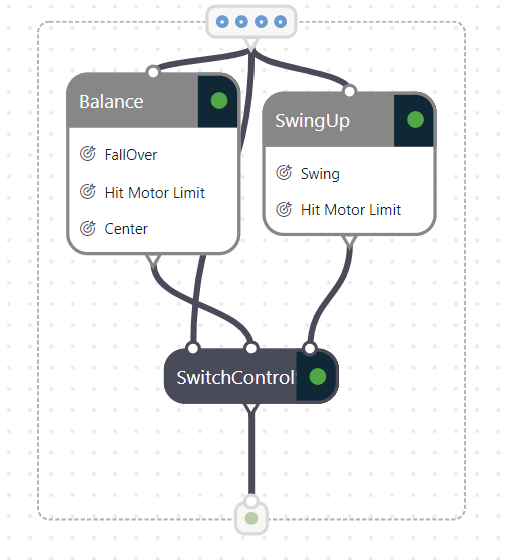
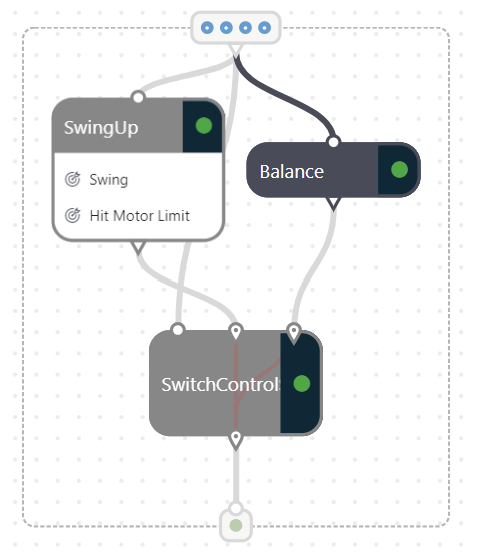
Consolidating to one selector Inkling file. Updated README for learned concept and programmed concept for balance. Added pytests

diff --git a/Python/samples/quanser-qube/tests/test_multi_concept.py b/Python/samples/quanser-qube/tests/test_multi_concept.py
@@ -1,0 +1,46 @@
+import os
+import pytest
+from functools import partial
+import glob
+import pandas as pd
+import numpy as np
+
+@pytest.fixture()
+def port(pytestconfig):
+    return pytestconfig.getoption("port")
+
+@pytest.fixture()
+def render(pytestconfig):
+    return pytestconfig.getoption("render")
+
+@pytest.fixture()
+def num_iterations(pytestconfig):
+    return pytestconfig.getoption("num_iterations")
+
+@pytest.fixture()
+def scenario_file(pytestconfig):
+    return pytestconfig.getoption("scenario_file")
+
+def test_exported_brain(port, render, num_iterations, scenario_file):
+    from policies import brain_policy
+    from main import test_policy
+    url = f"http://localhost:{port}"
+    print(f"Connecting to exported brain running at {url}...")
+    trained_brain_policy = partial(brain_policy, exported_brain_url=url)
+    test_policy(
+        render=render,
+        log_iterations=True,
+        policy=trained_brain_policy,
+        policy_name="exported",
+        num_iterations=num_iterations,
+        scenario_file=scenario_file,
+    )
+
+    files = glob.glob('logs/' + '/*csv')
+    max_file = max(files, key=os.path.getctime)
+
+    with open(max_file) as fname:
+        df = pd.read_csv(fname)
+
+    assert np.mean(df['state_alpha'].iloc[-400:]) <= 0.03
+    assert np.mean(df['state_alpha_dot'].iloc[-400:]) <= 0.01

diff --git a/Python/samples/quanser-qube/tests/conftest.py b/Python/samples/quanser-qube/tests/conftest.py
@@ -1,0 +1,5 @@
+def pytest_addoption(parser):
+    parser.addoption("--port", action="store", default=5005)
+    parser.addoption("--render", action="store", default=False)
+    parser.addoption("--num_iterations", action="store", default=640)
+    parser.addoption("--scenario_file", action="store", default="assess_config.json")

diff --git a/Python/samples/quanser-qube/README.md b/Python/samples/quanser-qube/README.md
@@ -6,9 +6,7 @@ For more information about the Qube click see the [product page](https://www.qua
 
 ## Objective
 
-Train a multi-concept brain with a programmed selector. Typically control theory will have separate controllers for the problem of swing up and balance. The reason is because the controllers are designed about different equilibrium points, i.e. pendulum at rest or pendulum upright. We wish to learn separate concepts here and strategically determine when to rely on the action from the correct strategy using what's called a selector.
-
-> ⚠ Learned concepts, custom assessment are on the roadmap, but not available yet
+Train a multi-concept brain with a learned selector choosing between two strategies: 1) Linear Quadratic Controller (LQR) that's programmed and 2) a learned concept for swinging up. Typically control theory will have separate controllers for the problem of swing up and balance. The reason is because the controllers are designed about different equilibrium points, i.e. pendulum at rest or pendulum upright. The learned selector gets trained after the two concepts are created and uses the state variables as input to strategically select which strategy to use.
 
 [![Video](img/quanser.png)](https://www.youtube.com/watch?v=XUerP0Ex32E)
 ![]()
